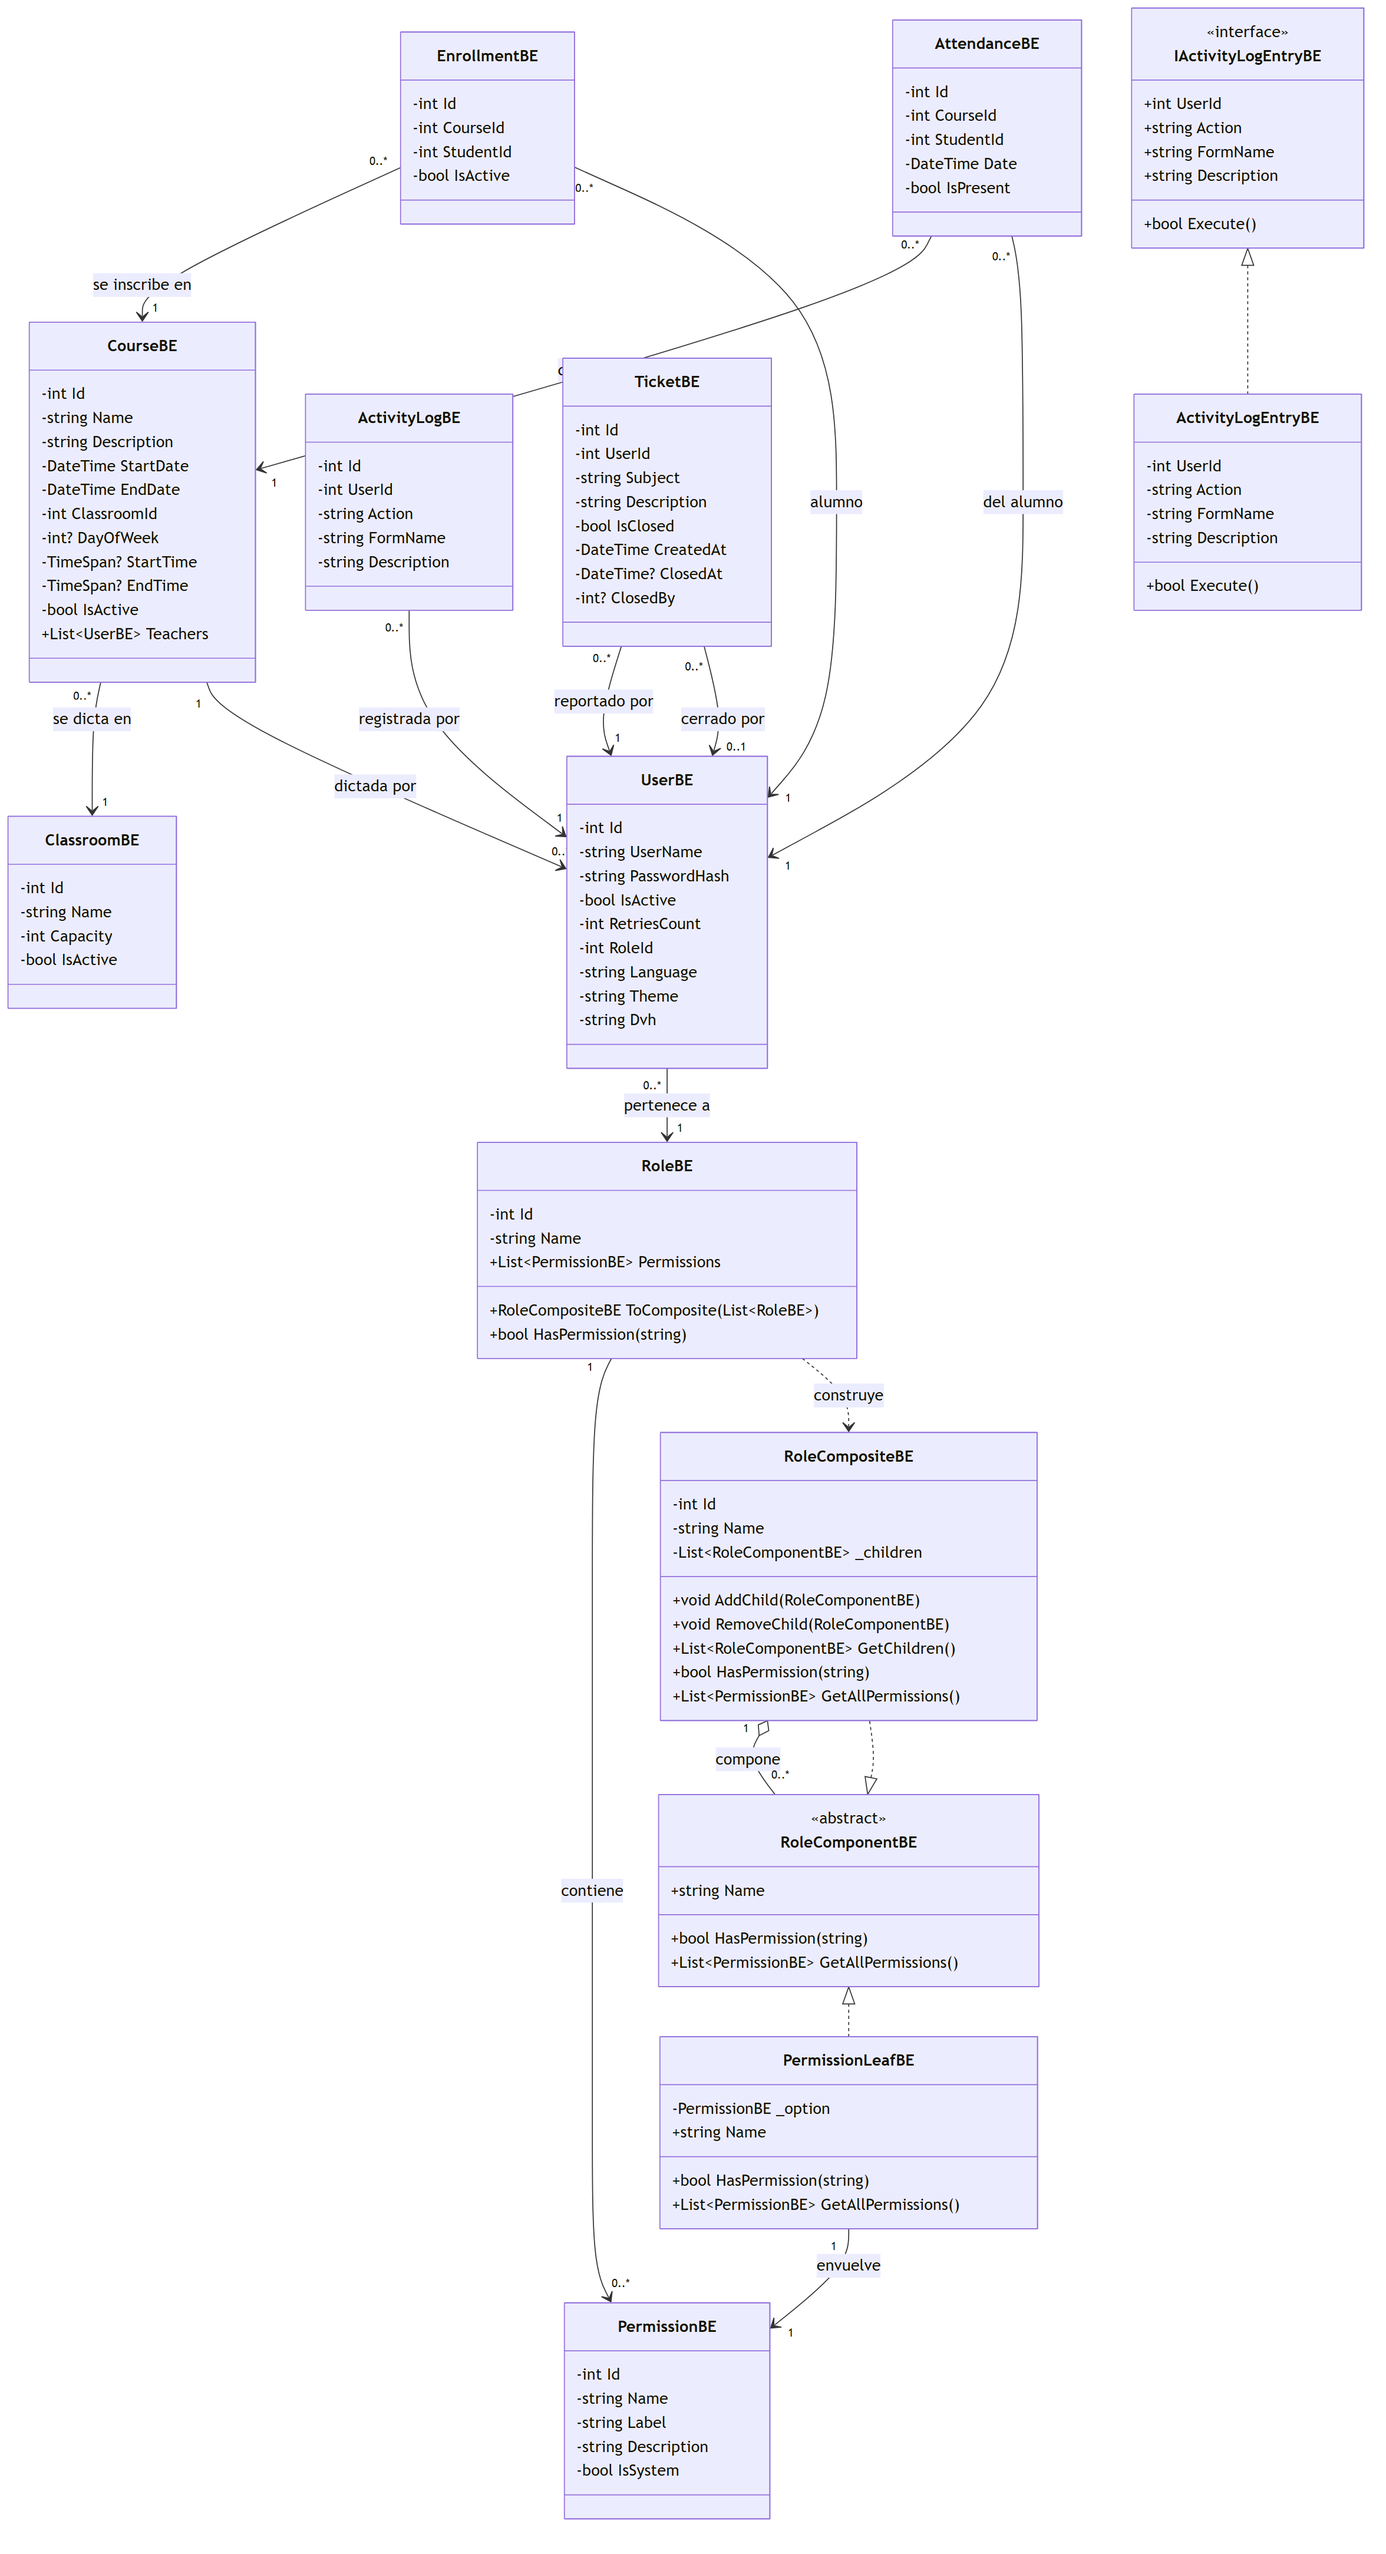
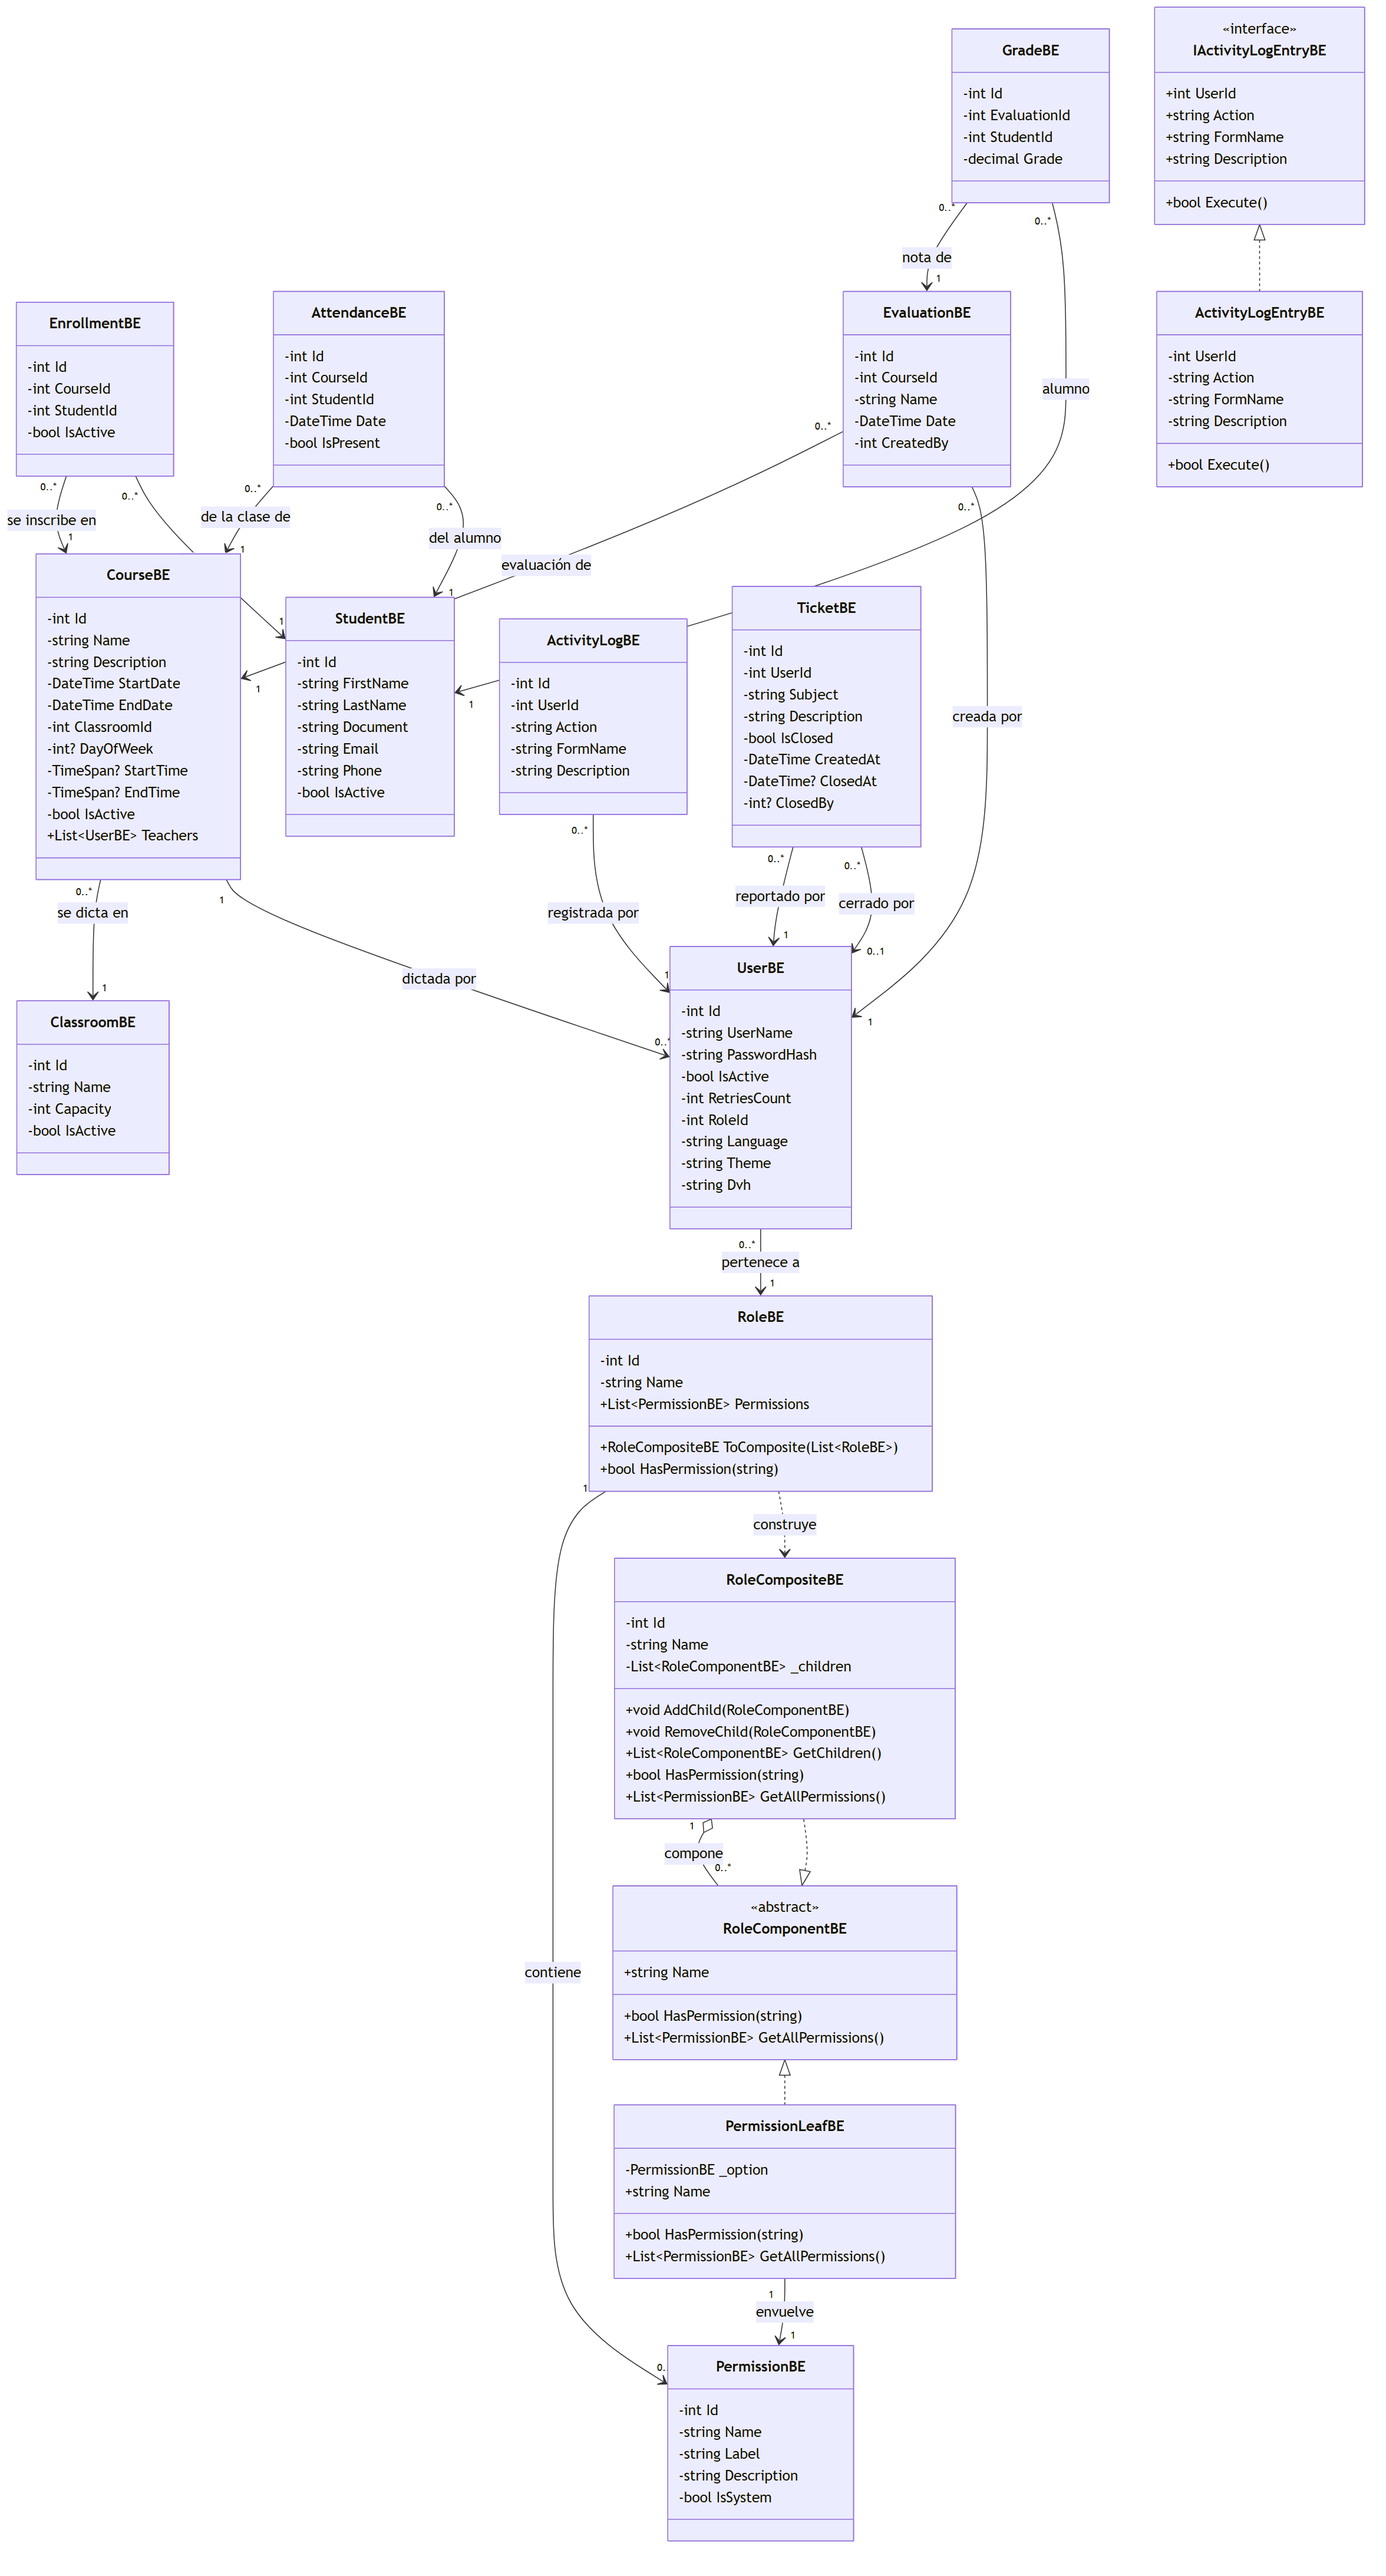
docs(procesos): diagramas de actividad con 4 roles y modelo conceptual
- 3.1.3: ABM, inscripcion, asistencia y tickets rediseñados sin Bedelia
  (Coordinador/Profesor + Sistema); nuevos diagramas de evaluaciones
  e informes (3ra entrega)
- 3.1.4 modelo conceptual: StudentBE, EvaluationBE, GradeBE; alumnos
  ya no son usuarios en las relaciones de inscripcion/asistencia
- secciones-1-a-3: listado de diagramas y texto actualizados

diff --git a/docs/md/secciones-1-a-3-para-word.md b/docs/md/secciones-1-a-3-para-word.md
@@ -120,17 +120,19 @@ El alcance del sistema abarca los siguientes módulos:
 
 #### 3.1.3. Diagrama de Proceso
 
-Diagramas de los procesos actuales del sistema:
+Diagramas de los procesos que el sistema soporta con los roles Administrador, Coordinador, Profesor y Director:
 
 - Mantenimiento de Aplicativo (ABM): ![](../mermaid-live/3.1.3.actividad-abm.png)
 - Inscripción a Cursos: ![](../mermaid-live/3.1.3.actividad-inscripcion.png)
 - Registro de Asistencias: ![](../mermaid-live/3.1.3.actividad-asistencia.png)
 - Gestión de Tickets de Reclamo: ![](../mermaid-live/3.1.3.actividad-tickets.png)
+- Registro de Evaluaciones y Notas: ![](../mermaid-live/3.1.3.actividad-evaluaciones.png)
+- Consulta de Rendimiento e Informes Personalizados: ![](../mermaid-live/3.1.3.actividad-informes.png)
 
-> Los diagramas de proceso de *Registro de Evaluaciones y Notas*, *Rendimiento e Informes* y *Respaldo y Restauración* se incorporan junto con la implementación de esos módulos.
+> El diagrama de proceso de *Respaldo y Restauración* se incorpora junto con la implementación de ese módulo.
 
 #### 3.1.4. Modelo Conceptual
 
 ![](../mermaid-live/3.1.4.modelo-conceptual.png)
 
-El modelo describe las entidades centrales del sistema: usuarios, roles y permisos (seguridad); cursos, aulas, inscripciones y asistencia (ámbito académico); tickets (reclamos) y la bitácora de actividad (trazabilidad). Las entidades de evaluaciones y notas se agregan al modelo junto con ese módulo.
+El modelo describe las entidades centrales del sistema: usuarios, roles y permisos (seguridad); cursos, aulas, inscripciones y asistencia (ámbito académico); alumnos como entidad propia (gestionados por la academia, no son usuarios); evaluaciones y notas (cargas del Profesor); tickets (reclamos) y la bitácora de actividad (trazabilidad).
